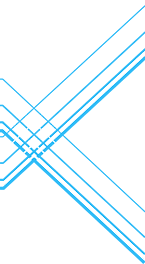
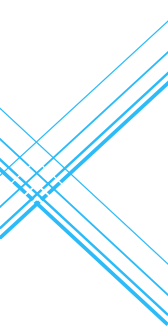
Small footer graphic on client login page has been fixed, closes #20.

Changed region(s): [[0.0, 0.0303, 1.0, 1.0], [0.9655, 0.7879, 1.0, 0.8182], [0.9931, 0.0, 1.0, 0.0303]]

diff --git a/app/assets/stylesheets/variables.scss b/app/assets/stylesheets/variables.scss
@@ -11,6 +11,6 @@ $footer-login-height: $footer-image-height - $footer-image-offset;
 
 
 $footer-image-offset-xs: 25px;
-$footer-image-height-xs: 264px;
-$footer-image-right-width-xs: 145px;
+$footer-image-height-xs: 328px;
+$footer-image-right-width-xs: 168px;
 $footer-login-height-xs: $footer-image-height-xs - $footer-image-offset-xs;

diff --git a/app/assets/stylesheets/footer.scss b/app/assets/stylesheets/footer.scss
@@ -32,8 +32,8 @@ body.large-footer {
   background-repeat: repeat-x;
   // background-size: 100% 100%;
 
-  right: $footer-image-right-width-xs - 3px;
-  top: -$footer-image-offset-xs;
+  right: $footer-image-right-width-xs;
+  top: -$footer-image-offset-xs - 1px;
 
   height: $footer-image-height-xs;
   width: 100%;

diff --git a/CHANGELOG.md b/CHANGELOG.md
@@ -4,6 +4,7 @@
 - **Client Changes**
   - Updated the internal client pages with cleaner layout
   - Client menu sidebar updated to match root menu design
+  - Small footer graphic on client login page has been fixed
 - **General Changes**
   - Product links no longer use `.html` extension
   - Primary link and accent color changed to lighter blue
